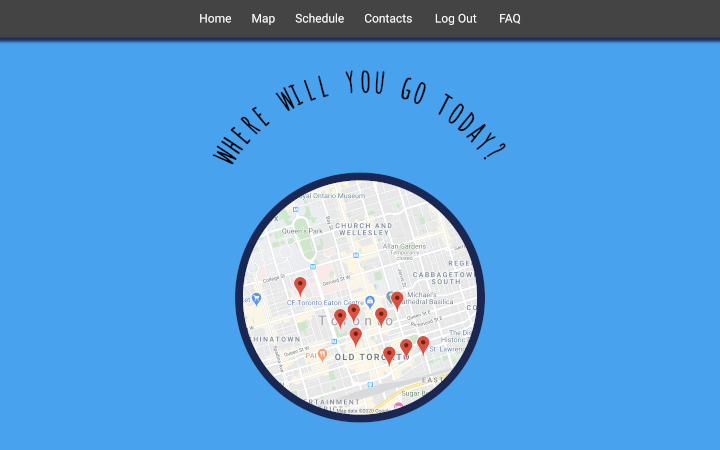
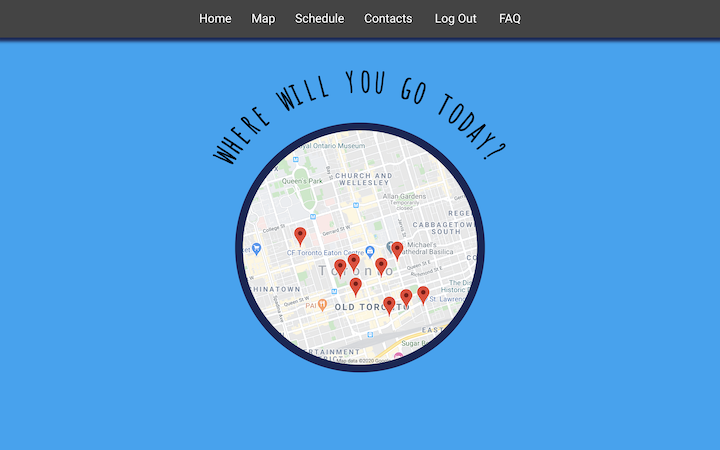
updated style.

diff --git a/src/styles/HomeMap.scss b/src/styles/HomeMap.scss
@@ -12,7 +12,7 @@
   // display: flex;
   // justify-content: center;
   // align-items: center;
-  margin: 100px auto;
+  margin: 0 auto;
   border: 1em solid #1a2656;
   border-radius: 50%;
 }
